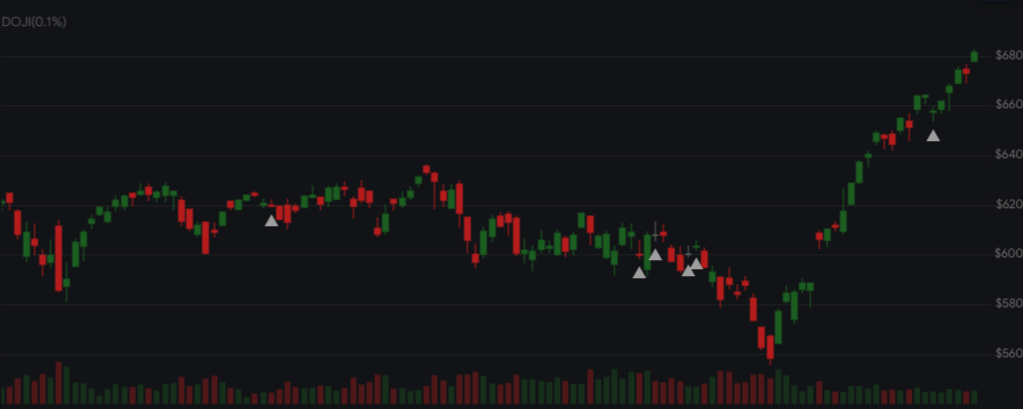
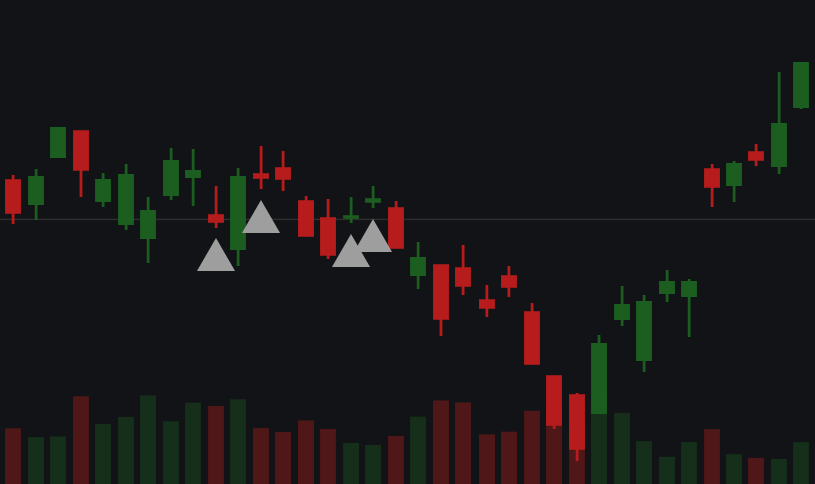
docs: candlestick thumbnails

diff --git a/docs/indicators/candlestick-patterns.md b/docs/indicators/candlestick-patterns.md
@@ -22,7 +22,7 @@ features:
     details: Full-body momentum candle
   - title: Pivots
     icon:
-      src: /assets/thumbs/indicators/pivots.png
+      src: /assets/thumbs/indicators/_placeholder.svg
     link: /indicators/Pivots
     details: Peak and trough pivot points
   - title: Williams Fractal